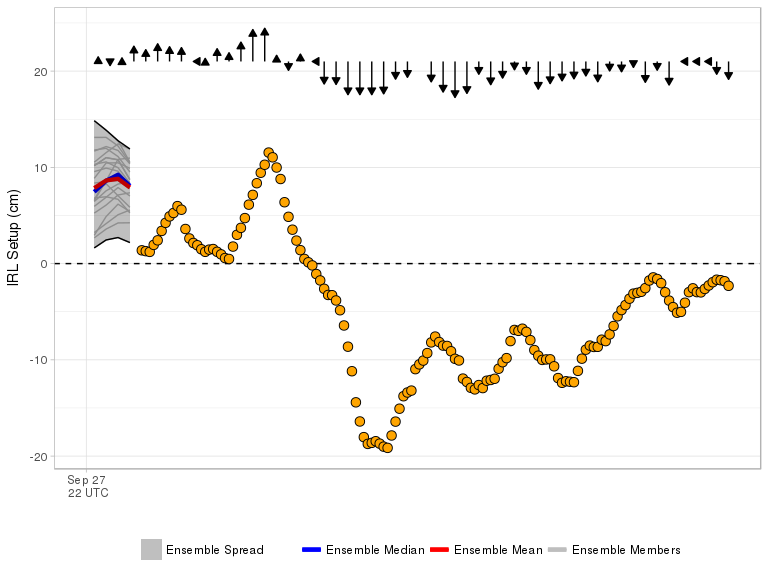
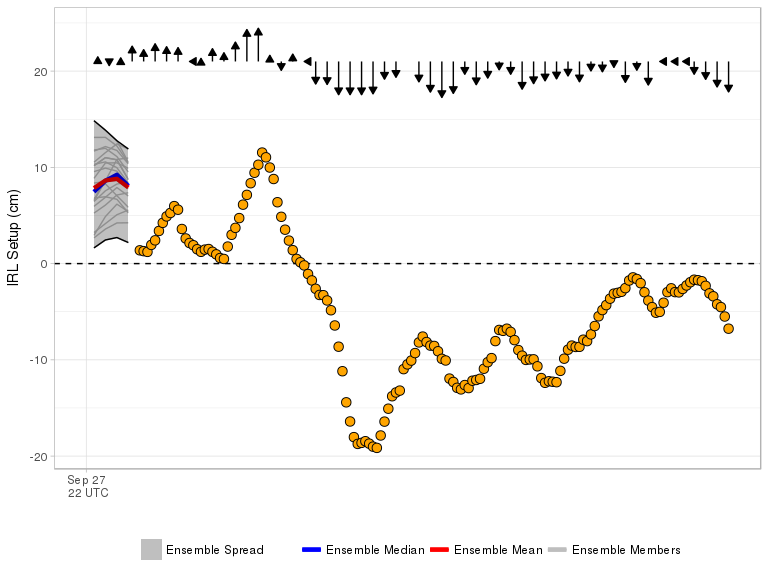
Forecast Update 2020100418

diff --git a/docs/index.md b/docs/index.md
@@ -1,9 +1,9 @@
-Current Forecast 2020-10-04 12Z
+Current Forecast 2020-10-04 18Z
 -----------------------------------
 
 [![](img/raw_setup.png)](https://fit-winds.github.io/IRLSetup/img/raw_setup.png)
 
-> Forecast valid 2020-10-04 13:03:55.
+> Forecast valid 2020-10-04 19:03:48.
 
 Explanation
 -----------
